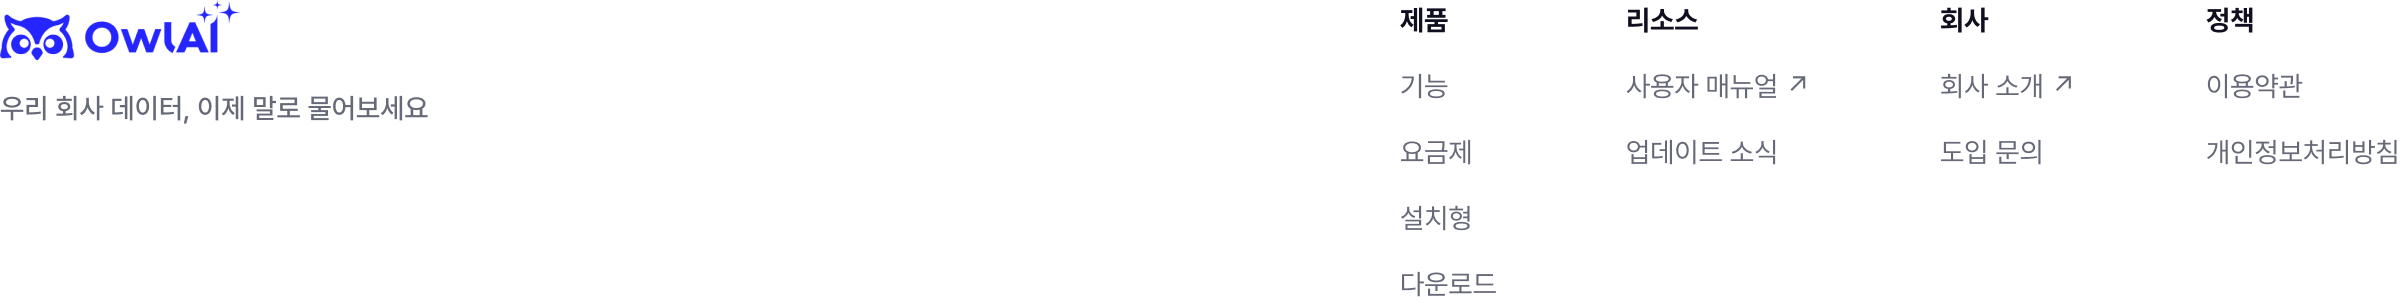
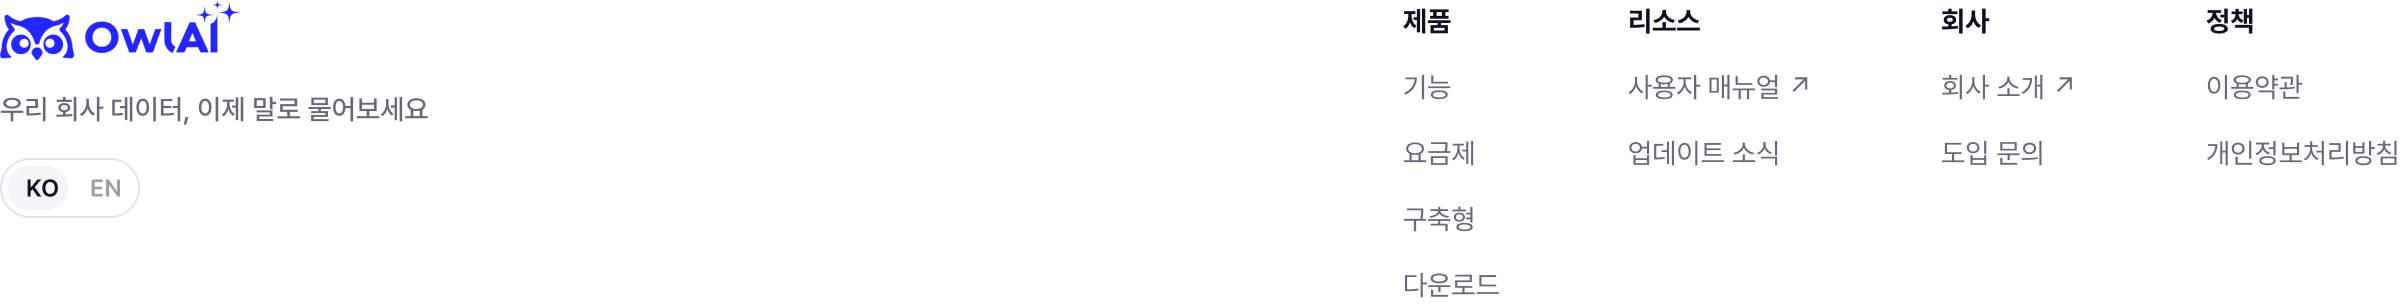
모션 시안: 설치형을 구축형으로, 요금제 Enterprise를 구축형으로 바꿈
- GNB, 푸터, 보안 섹션, FAQ, 하위 페이지의 설치형 문구를 구축형으로 변경
- 요금제 카드: 회사 서버 설치, 라이선스 계약, 고객 서버 설치, 자체 모델로 사내 처리, 폐쇄망 지원
- 기능 비교표 구축형 열: 무료 체험 크레딧, 구독 주기 크레딧 충전, AWS Marketplace 결제 제외
- 요금제, 업데이트 소식 페이지 높이 변화에 맞춰 클릭 영역 좌표 보정

diff --git a/owlai-overview-motion/index.html b/owlai-overview-motion/index.html
@@ -310,7 +310,7 @@ html.rm *,html.rm *::before,html.rm *::after{animation:none!important;transition
 
 <header class="gnb" id="gnb">
  <a class="glogo" aria-label="OwlAI"><img src="img/logo-white.png" width="128" height="32" alt="OwlAI"></a>
- <nav class="gnav"><a>기능</a><a>요금제</a><a class="res">리소스<svg width="14" height="14" viewBox="0 0 24 24" fill="none" stroke="currentColor" stroke-width="2" stroke-linecap="round" stroke-linejoin="round"><path d="m6 9 6 6 6-6"/></svg></a><a>설치형</a></nav>
+ <nav class="gnav"><a>기능</a><a>요금제</a><a class="res">리소스<svg width="14" height="14" viewBox="0 0 24 24" fill="none" stroke="currentColor" stroke-width="2" stroke-linecap="round" stroke-linejoin="round"><path d="m6 9 6 6 6-6"/></svg></a><a>구축형</a></nav>
  <div class="gright">
   <div class="lang" role="group" aria-label="언어"><button class="on" data-l="ko">KO</button><button data-l="en">EN</button></div>
   <a class="gbtn ghost">도입 문의</a><a class="gbtn pri">OwlAI 사용하기</a>
@@ -459,7 +459,7 @@ var U={
   ['2349-147',120,724,389,0,'glow lift'],['2349-155',525,724,389,1,'glow lift'],['2349-162',931,724,389,2,'glow lift'],
   ['2349-170',120,937,389,1,'glow lift'],['2349-177',525,937,389,2,'glow lift'],['2349-184',931,937,389,3,'glow lift'],
   ['2349-192',120,1190,1200,0]],
- s8:[['2334-1107',120,111,432,0,'ttl'],['2334-1122',1050,186,270,2]],
+ s8:[['2334-1107',120,111,398.5,0,'ttl'],['2334-1122',1050,186,270,2]],
  s9:[['2334-1128',120,112,360,0,'ttl'],['2334-1136',560,112,760,1],['2334-1142',560,252,760,2],['2334-1147',560,333,760,3],['2334-1152',560,414,760,4],['2334-1157',560,495,760,5],['2334-1162',560,576,760,6]],
  s10:[['2334-1307',563,104,313,0,'ttl'],['2334-1308',389,179,661,1],['2334-1309',310,188,820,2],['2334-1316',642,322,156,3]],
  ft:[['2334-1318',120,65,1200,0],['2334-1341',120,258,1200,1]]
@@ -692,7 +692,7 @@ document.querySelectorAll('.lang button').forEach(function(b){b.addEventListener
 // 모션 시안에 없는 화면은 Figma 시안 이미지를 페이지로 연다. 주소가 #pricing 처럼 바뀌어 뒤로 가기가 된다
 // 좌표는 Figma 프레임 기준 [x, y, 너비, 높이, 동작]
 // 동작: p:페이지, s:소개 페이지 섹션, m:창, t:안내 문구, home, res(리소스 메뉴)
-var MAN='t:사용자 매뉴얼(GitBook)로 이동합니다. URL 미정',INST='t:회사 홈페이지 설치형 소개로 이동합니다. URL 미정';
+var MAN='t:사용자 매뉴얼(GitBook)로 이동합니다. URL 미정',INST='t:회사 홈페이지 구축형 소개로 이동합니다. URL 미정';
 function FT(y,ko){return [[816,92,48,32,'s:s5'],[816,125,56,32,'p:pricing'],[816,158,56,32,INST],[816,191,64,32,'t:다운로드 페이지는 준비 중입니다'],
  [929,92,104,32,MAN],[929,125,88,32,'p:updates'],[1086,92,80,32,'t:회사 소개(회사 홈페이지)로 이동합니다. URL 미정'],[1086,125,64,32,'p:contact'],
  [1219,92,60,32,'t:이용약관 페이지는 준비 중입니다'],[1219,125,106,32,'t:개인정보처리방침 페이지는 준비 중입니다']]
@@ -701,11 +701,11 @@ var SIDE=[[16,778,130,34,'home'],[16,814,130,34,'p:pricing'],[16,850,130,34,'p:c
 var ENTAB='t:영문 탭 전환 화면은 시안 없음 (한국어 화면에서 확인)';
 var LOGIN='t:로그인하면 질문이 입력창에 채워진 첫 화면으로 돌아갑니다 (이 화면은 시안 없음)';
 var PG={
- pricing:{img:'pg-pricing',hot:[[153,662,320,52,'p:app'],[560,663,320,52,'p:app'],[967,662,320,52,'p:contact'],[116,3256,84,34,'p:contact'],
-  [1041,3826,115,53,'m:brochure'],[1168,3826,100,51,'p:contact']].concat(FT(4034,1)),
-  faq:{y:3058,x:540,w:790,dy:24,rh:72,img:'pfaq-',q:{1:[128,261,336,411,486,561],2:[128,203,336,411,486,561],3:[128,203,278,411,486,561],
+ pricing:{img:'pg-pricing',hot:[[153,660,320,52,'p:app'],[560,660,320,52,'p:app'],[967,660,320,52,'p:contact'],[116,3238,84,34,'p:contact'],
+  [1041,3808,115,53,'m:brochure'],[1168,3808,100,51,'p:contact']].concat(FT(4016,1)),
+  faq:{y:3040,x:540,w:790,dy:24,rh:72,img:'pfaq-',q:{1:[128,261,336,411,486,561],2:[128,203,336,411,486,561],3:[128,203,278,411,486,561],
    4:[128,203,278,353,486,561],5:[128,203,278,353,428,561],6:[128,203,278,353,428,503]}}},
- updates:{img:'pg-updates',hot:[[136,676,104,34,MAN],[816,2903,112,34,'t:다음 목록은 시안 없음']].concat(FT(3059,1))},
+ updates:{img:'pg-updates',hot:[[136,672,104,34,MAN],[816,2890,112,34,'t:다음 목록은 시안 없음']].concat(FT(3047,1))},
  contact:{img:'pg-contact',hot:[[719,233,59,41,'p:quote'],[145,714,160,43,'m:brochure'],[605,1041,674,56,'p:sent']].concat(FT(1250,1))},
  sent:{img:'pg-contact-sent',hot:[[145,714,160,43,'m:sent'],[796,843,139,53,'m:sent'],[947,843,141,51,'p:app']].concat(FT(1250,1))},
  quote:{img:'pg-quote',hot:[[605,233,86,41,'p:contact'],[1172,305,100,40,'p:pricing'],[145,714,160,43,'m:brochure'],
@@ -762,7 +762,7 @@ function toggleDd(){if(dd)return closeDd();dd=document.createElement('div');dd.c
 document.addEventListener('click',function(e){if(dd&&!res.contains(e.target))closeDd()});
 
 // GNB, 플로팅
-var GL={ko:[['기능','요금제','리소스','설치형'],['도입 문의','OwlAI 사용하기']],en:[['Features','Pricing','Resources','On-premises'],['Contact us','Try OwlAI'],'Get brochure']};
+var GL={ko:[['기능','요금제','리소스','구축형'],['도입 문의','OwlAI 사용하기']],en:[['Features','Pricing','Resources','On-premises'],['Contact us','Try OwlAI'],'Get brochure']};
 GL.ko.push('소개서 받기');
 [].forEach.call(document.querySelectorAll('.gnav a'),function(a,i){a.onclick=function(e){e.stopPropagation();act(['s:s5','p:pricing','res',INST][i])}});
 $('.glogo').onclick=function(){act('home')};
@@ -799,13 +799,13 @@ function route(){var k=location.hash.slice(1),P=PG[k],id=++rid,src=P&&'img/'+P.i
  if(!P&&!PV)return setLang('ko');
  if(P&&!PV)mainY=scrollY;
  veil.style.background=P?(BG[k]||'#fff'):(afterMain?afterMain.bg:'#fff');veil.classList.add('on');
- Promise.all([P?Promise.all([load(src),load('img/'+P.img+'-l.png?v=3'),load('img/'+P.img+'-r.png?v=3')]):0,later(230)]).then(function(){
+ Promise.all([P?Promise.all([load(src),load('img/'+P.img+'-l.png?v=4'),load('img/'+P.img+'-r.png?v=4')]):0,later(230)]).then(function(){
   if(id!==rid)return;
   [].slice.call(pvin.querySelectorAll('.hot')).forEach(function(e){e.remove()});
   if(!P){PV=null;pv.hidden=true;H.classList.remove('pvon','appv');setLang('ko');
    if(afterMain)afterMain.go();else scrollTo(0,mainY);afterMain=null}
   else{PV=k;pvimg.src=src;
-   ['l','r'].forEach(function(s){var e=$('.pv'+s);e.style.backgroundImage='url(img/'+P.img+'-'+s+'.png?v=3)';e.style.backgroundSize=(P.app?1:48)+'px auto'});
+   ['l','r'].forEach(function(s){var e=$('.pv'+s);e.style.backgroundImage='url(img/'+P.img+'-'+s+'.png?v=4)';e.style.backgroundSize=(P.app?1:48)+'px auto'});
    H.classList.add('pvon');H.classList.toggle('appv',!!P.app);setLang(k==='en'?'en':'ko');
    P.hot.forEach(function(a){hot(pvin,a)});
    pvfaq.hidden=true;pvfaq.classList.add('out');
@@ -816,7 +816,7 @@ addEventListener('hashchange',route);route();
 // 첫 화면을 다 띄운 뒤 시안 페이지와 창 이미지를 차례로 미리 받아 둠
 addEventListener('load',function(){later(1500).then(function(){
  var L=['md-brochure','md-sent','dd-resource','faq-2','faq-3','faq-4','faq-5','faq-6','efaq-2','efaq-3','efaq-4','efaq-5','efaq-6'];
- ['contact','pricing','app','login','sent','quote','updates','en'].forEach(function(k){L.push(PG[k].img,PG[k].img+'-l.png?v=3',PG[k].img+'-r.png?v=3')});
+ ['contact','pricing','app','login','sent','quote','updates','en'].forEach(function(k){L.push(PG[k].img,PG[k].img+'-l.png?v=4',PG[k].img+'-r.png?v=4')});
  L.reduce(function(p,f){return p.then(function(){return load('img/'+f+(f.indexOf('?')<0?'.png':''))})},Promise.resolve())})});
 })();
 </script>
